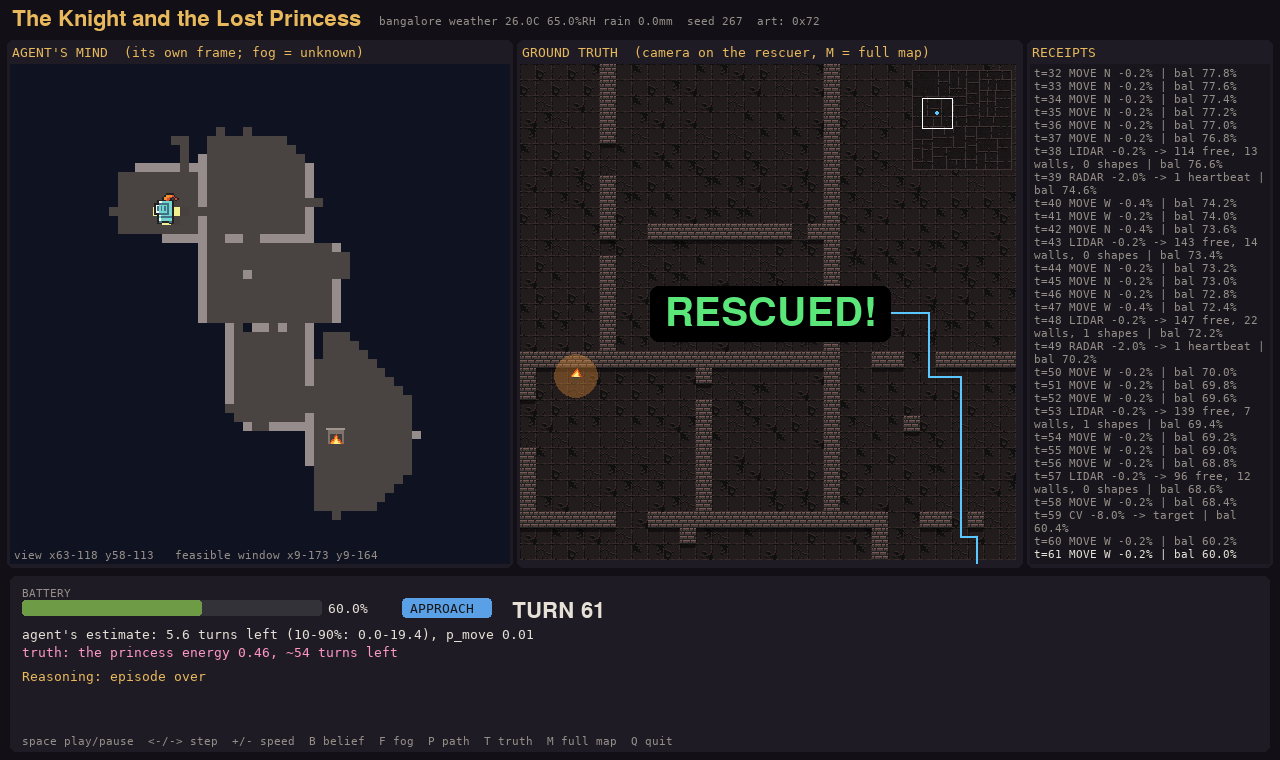
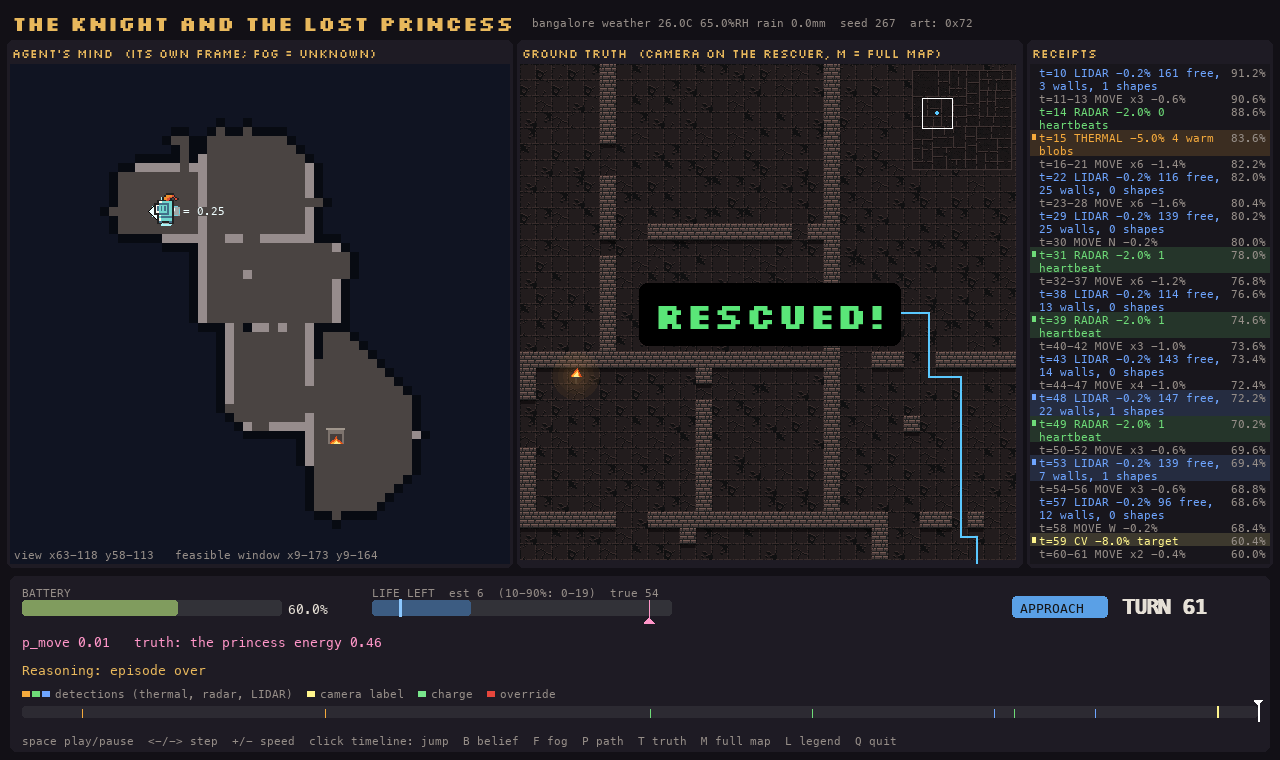
Refresh screenshots and sample GIFs; README: captions, viewer controls, reading the viewer, font credit

diff --git a/README.md b/README.md
@@ -47,10 +47,28 @@ radar check the candidate, the camera (CV) confirms, and the knight steps in at 
 
 | | |
 |---|---|
-| ![start](docs/screenshots/01_start.png) **Turn 0.** The distress call gives a bearing cone; the agent knows nothing about the map yet. | ![search](docs/screenshots/02_search.png) **Searching.** The belief has narrowed to one room; the agent has mapped what it walked through and goes to check the candidate with radar first. |
-| ![cv](docs/screenshots/03_cv_confirm.png) **Confirming.** From a viewpoint with line of sight, the camera labels the target. | ![rescued](docs/screenshots/04_rescued.png) **Rescued** at turn 61; she had 116 turns of life in total. |
-| ![decoy](docs/screenshots/05_decoy_fire.png) **A decoy.** A brazier looked like a warm person to thermal; the camera labels it `fire`, and the belief moves on. | ![override](docs/screenshots/06_override.png) **Endgame override.** At 27% battery, going home now scores 0.06 and a lean dash 0.50, so the agent gambles. |
-| ![recharge](docs/screenshots/07_recharge.png) **Recharge on the way.** A hearth found during the dash refills the battery in one turn; she is rescued at turn 139. | |
+| ![start](docs/screenshots/01_start.png) **Turn 0.** The distress call gives a bearing cone: the cool glow is the belief, the solid and dashed outlines its 50% and 90% likely areas. The agent knows nothing about the map yet. | ![search](docs/screenshots/02_search.png) **Searching.** The belief has narrowed to one room; the agent has mapped what it walked through and pings it with radar (the green ring) before going in. |
+| ![cv](docs/screenshots/03_cv_confirm.png) **Confirming.** From a viewpoint with line of sight, the camera (its 4 cells outlined) labels the target. | ![rescued](docs/screenshots/04_rescued.png) **Rescued** at turn 61; she had 116 turns of life in total. |
+| ![decoy](docs/screenshots/05_decoy_fire.png) **A decoy.** A brazier looked like a warm person to thermal; the camera labels it `fire` (the highlighted receipt), and the belief moves on. | ![override](docs/screenshots/06_override.png) **Endgame override.** At 27% battery, going home now scores 0.06 and a lean dash 0.50, so the agent gambles. The banner has its own row under the battery and life bars. |
+| ![recharge](docs/screenshots/07_recharge.png) **Recharge on the way.** A hearth found during the dash refills the battery in one turn (the green timeline marker); she is rescued at turn 139. | |
+
+**Reading the viewer.**
+- **Agent's mind (left):**
+  - **Belief:** one cool teal glow. Brighter means more likely, and it is invisible below 1% of the peak. The solid
+    outline is the smallest area holding 50% of the belief, the dashed one 90%, and the white diamond is the most
+    likely cell with its probability.
+  - **Fog:** the dark blue is unknown ground, with a darker band where the map ends.
+  - **Scans:** each scan sends a ring out from the knight: thermal amber, radar green, LIDAR blue. What it finds
+    appears as the ring reaches it. The camera outlines the 4 cells it looks at.
+  - **Tracks:** circles coloured by what the agent thinks they are.
+- **Warm colours** (amber, orange, red) always mean heat and fire. The braziers and hearths on the truth side glow,
+  and the belief never uses these colours.
+- **Bottom bar:**
+  - **Battery and life bars:** the life bar is the agent's estimate of her remaining life, with its 10-90% band
+    shaded; the pink tick is the true value.
+  - **Timeline:** the whole mission, with markers for detections, camera labels, charges and overrides. Click it in
+    `replay` to jump.
+- **Legend:** `L` shows one.
 
 ---
 
@@ -132,9 +150,9 @@ offline.
 
 | Mode | Keys |
 |---|---|
-| `replay` | space play/pause, ←/→ step, +/- speed, `B` belief, `F` fog, `P` path, `T` truth, `M` full map / camera, `Q` quit |
-| `play --as rescuer` | arrows move, `Q`/`E` turn, `L` lidar, `R` radar, `T` thermal, `C` cv, `H` charge, space wait |
-| `play --as target` | arrows/WASD move the princess (she stays put if you press nothing), `P` pause |
+| `replay` | space play/pause, ←/→ step, +/- speed, click the timeline to jump, `B` belief, `F` fog, `P` path, `T` truth, `M` full map / camera, `L` legend, `Q` quit |
+| `play --as rescuer` | arrows move, `Q`/`E` turn, `L` lidar, `R` radar, `T` thermal, `C` cv, `H` charge, space wait, `G` legend |
+| `play --as target` | arrows/WASD move the princess (she stays put if you press nothing), `P` pause, `L` legend |
 
 ---
 
@@ -421,6 +439,8 @@ docs/         screenshots
 
 - Art: Kenney *Tiny Dungeon* and 0x72 *16x16 DungeonTileset II*, both CC0, downloaded separately. Braziers,
   hearths, dogs, armour and the robot skin are drawn procedurally.
+- Font: [Silkscreen](https://github.com/googlefonts/silkscreen) (The Silkscreen Project Authors), SIL Open Font License 1.1
+  (`assets/fonts/OFL.txt`), for titles and headings; numbers and logs use the system monospace font.
 - Weather: [Open-Meteo](https://open-meteo.com/).
 - macOS note: the pygame loop pumps events every frame, and OpenCV is not used (its bundled SDL2 conflicts
   with pygame's).
